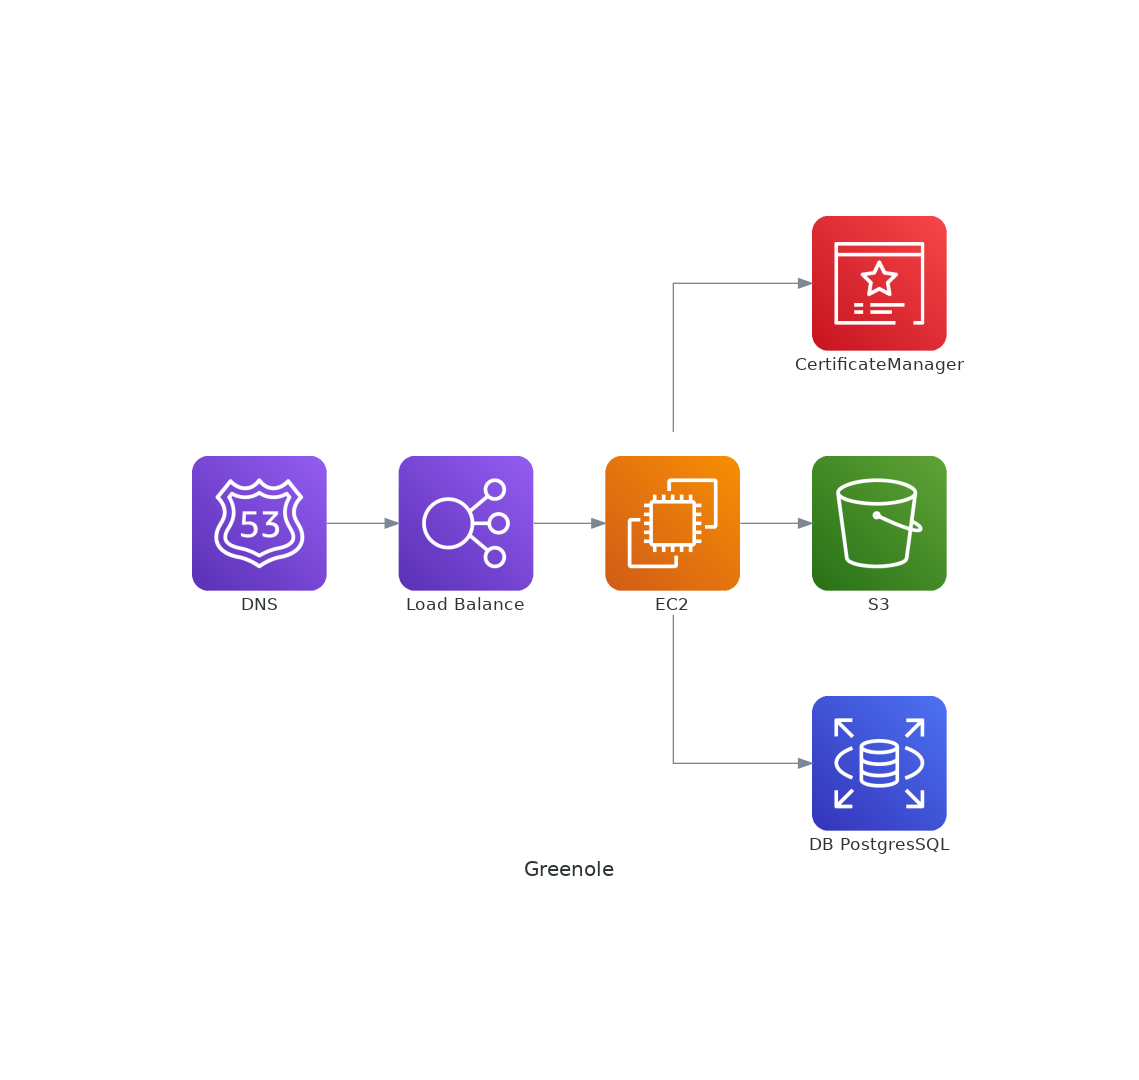
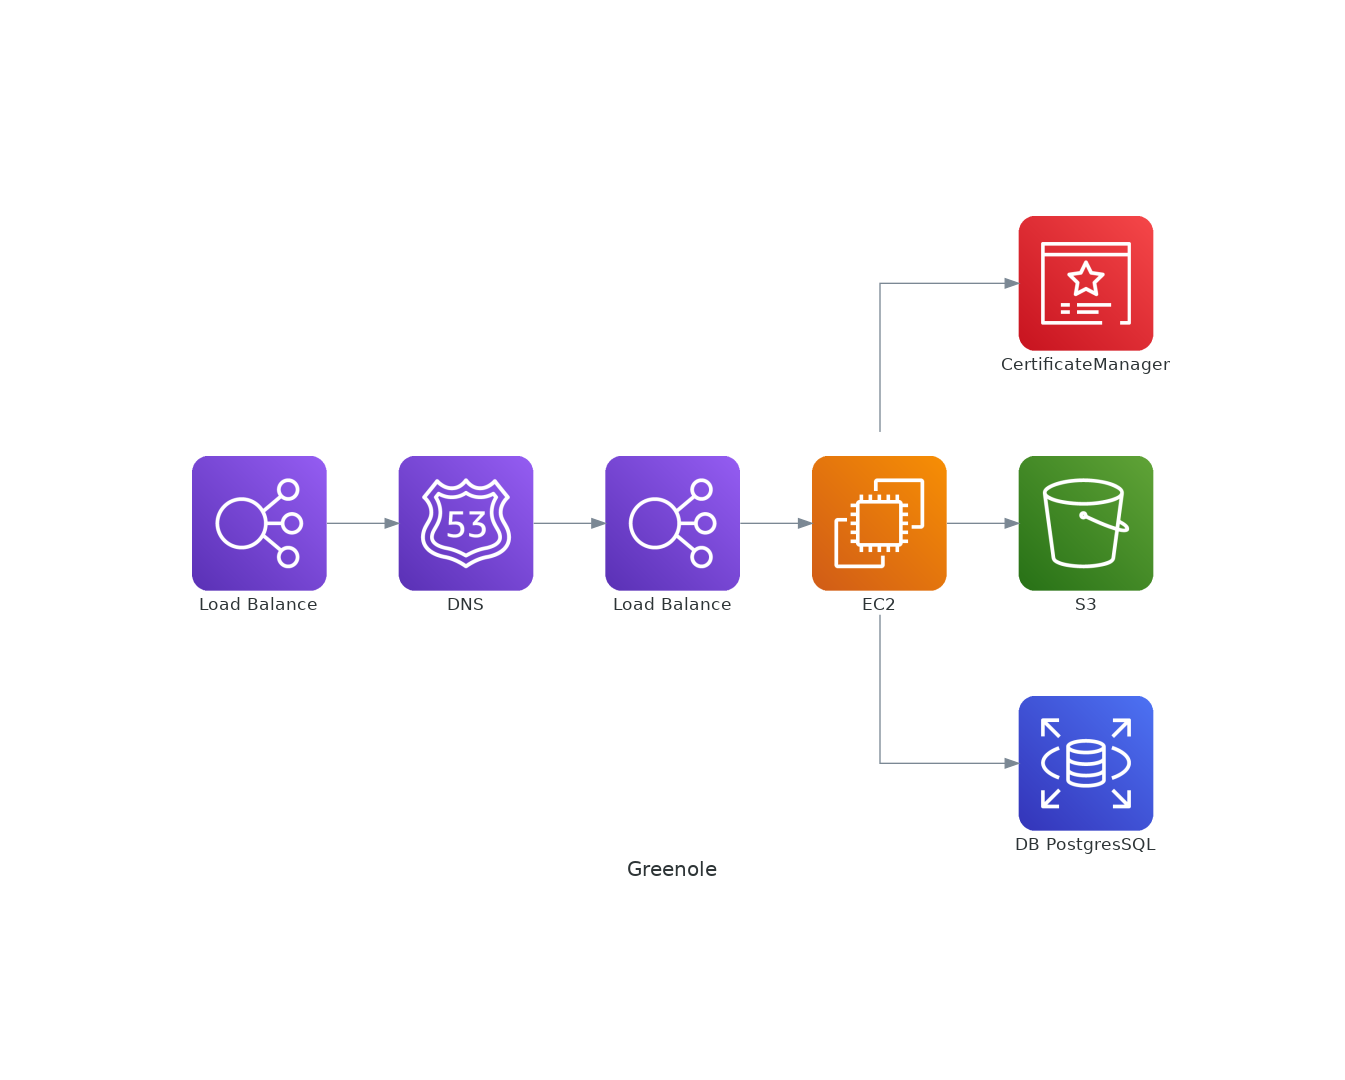
wip

diff --git a/platform3.py b/platform3.py
@@ -1,0 +1,26 @@
+from diagrams import Cluster, Diagram
+from diagrams.aws.compute import ECS, EB, EC2
+from diagrams.aws.database import RDS
+from diagrams.aws.network import ELB, Route53
+from diagrams.aws.storage import S3
+from diagrams.aws.security import ACM
+
+
+with Diagram("Greenole", show=False):
+    # Plat 3.0
+    dns_plat3 = Route53("DNS")
+    lb_plat3 = ELB("Load Balance")
+    acm_plat3 = ACM("CertificateManager")
+    ec2_plat3 = EC2("EC2")
+    s3_plat3 = S3("S3")
+    rds_plat3 = RDS("DB PostgresSQL")
+
+    # Diagram
+    ec2_plat3 >> acm_plat3
+    ec2_plat3 >> s3_plat3
+    dns_plat3 >> lb_plat3 >> ec2_plat3 >> rds_plat3
+
+    # API Device
+    lb_api_device = ELB("Load Balance")
+
+    lb_api_device >> dns_plat3
